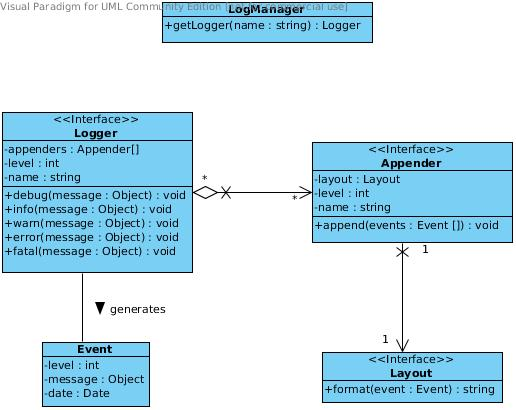
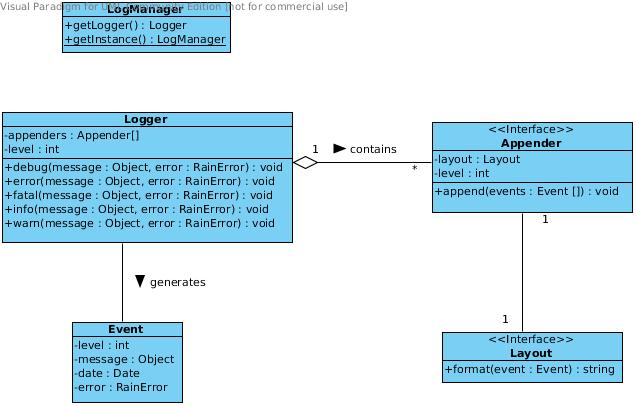
first version of logging proposal

diff --git a/doc/source/proposals/Features-proposal-logging.rst b/doc/source/proposals/Features-proposal-logging.rst
@@ -113,7 +113,144 @@ console appender, since that one inherits the level from the logger, but it will
 the component file appender, since that one has a level threshold of ERROR. Naturally, logging
 an ERROR or FATAL message will send it to both appenders.
 
--------
+.......
 Loggers
--------
+.......
 
+RAIN's logging system supports one platform logger and multiple component loggers, with only one
+logger being available per component. The component loggers extend the platform logger with custom
+appenders so *at any time there is only one logger visible to the running code*, be it the platform
+logger for server code or a particular component logger for that component's code.
+
+The *logger* configuration object supports the following properties:
+
+..
+    /*
+        Please keep the table formatting neat and clean when updating by following these simple
+        rules:
+
+            - cells should have at least 2 spaces left and right padding
+            - columns should be separated by at least 2 spaces
+            - the table should be kept at full 100 chars width all the time
+    */
+
+=============  ====================================================================================
+  Property      Description
+=============  ====================================================================================
+  level         Log level value that will be inherited by all appenders that don't specify a
+                level. Only valid for the platform logger definition.
+
+  appenders     Array of appenders. For component loggers, these are added to the list provided
+                by the platform logger.
+=============  ====================================================================================
+
+.........
+Appenders
+.........
+
+An appender defines an output target. Any number of appenders may be defined for a logger. Appender
+configuration objects support the following properties:
+
+..
+    /*
+        Please keep the table formatting neat and clean when updating by following the rules
+        outlined before the first table above.
+    */
+
+============  =====================================================================================
+  Property      Description
+============  =====================================================================================
+  level         Optional property. Threshold level below which messages are not logged by this
+                appender. Acts as a basic filter. If not specified, it will be inherited from the
+                platform logger level.
+
+  type          Required property. One of the predefined appender types or a path to a module
+                implementing the Appender interface inside the server folder of the current
+                component if configuring a component logger.
+
+  layout        Optional property. Layout configuration object for this appender.
+
+  params        Optional property. Specific configuration parameters for this appender.
+============  =====================================================================================
+
+^^^^^^^^^^^^^^^^^^
+Platform Appenders
+^^^^^^^^^^^^^^^^^^
+
+The logging system defines a set of common appenders that can be used directly. These are summarized
+in the following table:
+
+..
+    /*
+        Please keep the table formatting neat and clean when updating by following the rules
+        outlined before the first table above.
+    */
+
+===================  ==============================================================================
+  Appender             Description
+===================  ==============================================================================
+  console              Logs to the standard output.
+  colored-console      Logs to the standard output using configurable colors.
+  file                 Logs to a file.
+===================  ==============================================================================
+
+.......
+Layouts
+.......
+
+A layout describes the format of the message that is output by the appender. Only one layout
+may be defined per appender. Layout configuration objects support the following properties:
+
+..
+    /*
+        Please keep the table formatting neat and clean when updating by following the rules
+        outlined before the first table above.
+    */
+
+============  =====================================================================================
+  Property      Description
+============  =====================================================================================
+  type          Required property. One of the predefined layout types or a path to a module
+                implementing the Layout interface inside the server folder of the current
+                component if configuring a component logger.
+
+  params        Optional property. Specific configuration parameters for this layout.
+============  =====================================================================================
+
+^^^^^^^^^^^^^^^^
+Platform Layouts
+^^^^^^^^^^^^^^^^
+
+The logging system defines a set of common layouts that can be used directly. These are summarized
+in the following table:
+
+..
+    /*
+        Please keep the table formatting neat and clean when updating by following the rules
+        outlined before the first table above.
+    */
+
+===================  ==============================================================================
+  Layout               Description
+===================  ==============================================================================
+  simple               Consists of the message level, followed by a dash and the messsage itself,
+                       e.g. ``DEBUG - Module loaded``.
+
+  pattern              Supports a comprehensive list of placeholders that can be combined to
+                       assemble a message containing information exposed by the platform,
+                       by the environment or by the logging event.
+===================  ==============================================================================
+
+-----------
+Client Side
+-----------
+
+The logging system was built with the objective that logging should be centralized. In this regard,
+client side specific appenders aren't supported. However, client side code is as important to the
+server and components as much as server side code, so it is important to give developers access
+to the logging system on the client side, too. The solution is to log all messages to the server
+side, regardless of their origin.
+
+RAIN should open a websocket channel for  sending logging events originating on the client to the
+server. The pattern layout makes it easy to separate messages from the client and server by
+providing a placeholder for this use.
